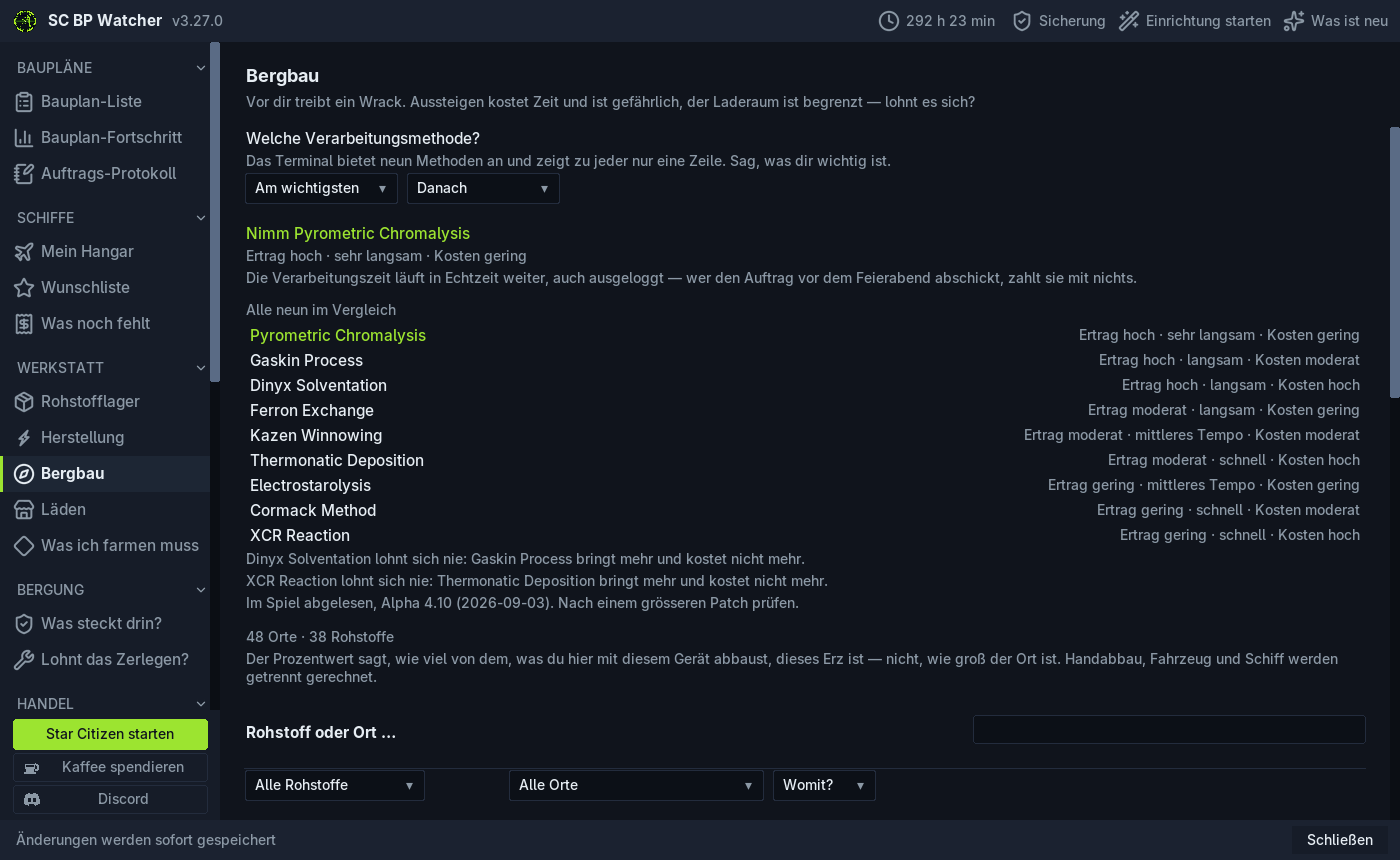
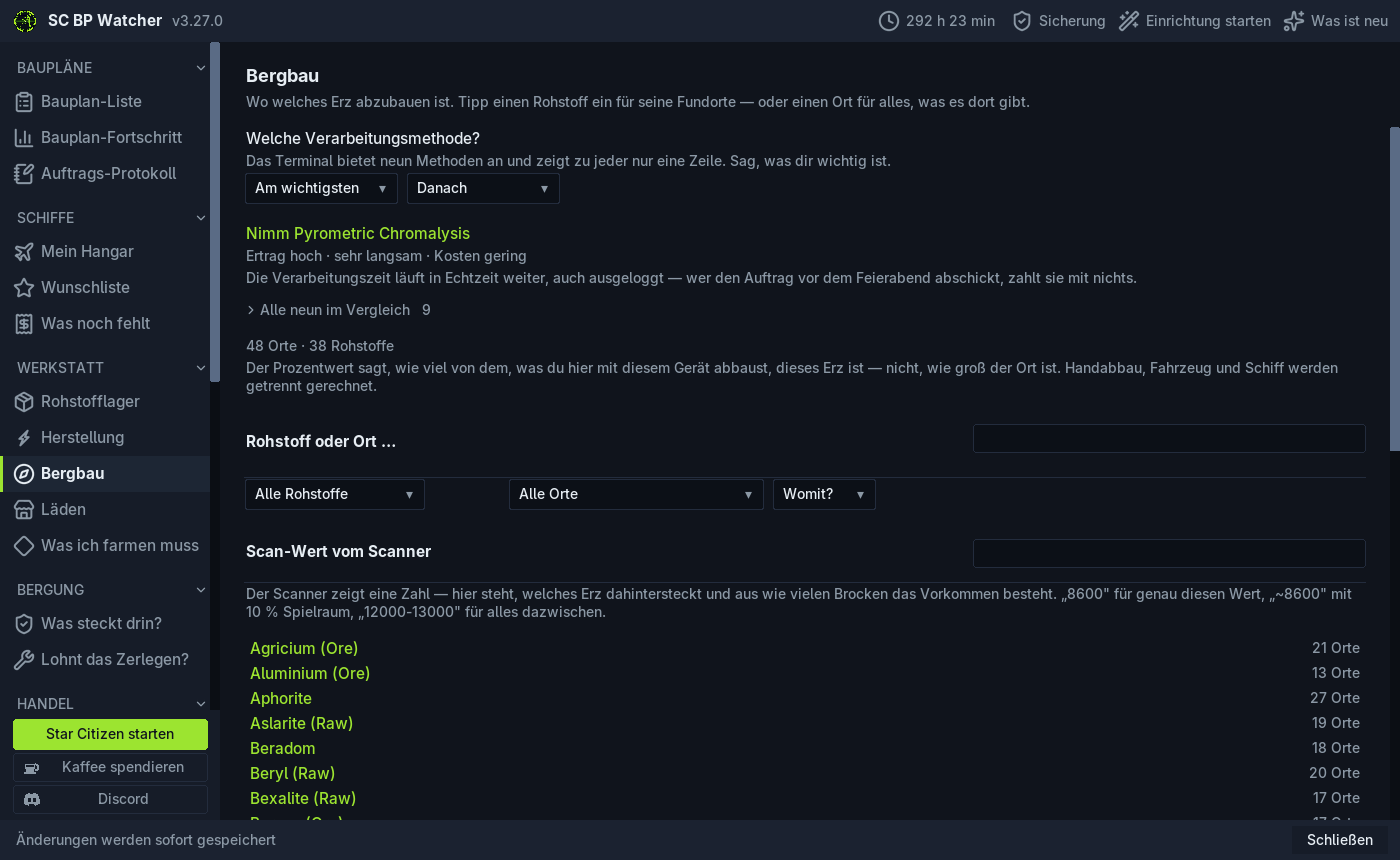
Bergbau: eigener Untertitel, Methodenvergleich klappt zu

diff --git a/scbp/seiten.py b/scbp/seiten.py
@@ -9267,7 +9267,10 @@ def _bergbau(fenster, rahmen):
     oder nicht.
     """
     from . import bergbau as berg_modul
-    _ueberschrift(fenster, rahmen, t('hf_bergbau'), t('s_wr_lead'))
+    # ⚠ **`s_bg_lead`, nicht `s_wr_lead`.** Hier stand der Text der
+    # Bergungs-Seite — „Vor dir treibt ein Wrack…" über der Erzsuche. Der
+    # eigene Satz war die ganze Zeit da und wurde von niemandem gerufen.
+    _ueberschrift(fenster, rahmen, t('hf_bergbau'), t('s_bg_lead'))
     innen = _rollflaeche(rahmen)
 
     try:
@@ -9606,6 +9609,8 @@ def _methodenblock(fenster, eltern):
                   'tempo': t('s_rm_tempo')}
     auswahl = [(a, achsentext[a]) for a in raff.ACHSEN]
     wahl = {'erste': '', 'zweite': ''}
+    # Der Klappzustand des Vergleichs — überlebt das Neuzeichnen, siehe unten.
+    klapp = {'offen': False}
     ergebnis = tk.Frame(block, bg=BG)
 
     def stufentext(kennung):
@@ -9634,10 +9639,50 @@ def _methodenblock(fenster, eltern):
             _fliesstext(ergebnis, t('s_rm_zeit_laeuft'), fenster.f_klein,
                         fill='x')
 
-        tk.Label(ergebnis, text=t('s_rm_alle'), bg=BG, fg=SUB,
-                 font=fenster.f_klein, anchor='w').pack(fill='x', pady=(10, 2))
+        # ⭐ **Der Vergleich klappt zu und startet zugeklappt** (08.09.2026):
+        # „die Info braucht man nur, wenn man sie sehen will." Neun Methoden
+        # mit Bewertung sind zwölf Zeilen über der eigentlichen Liste — die
+        # Empfehlung darüber beantwortet die Frage schon, der Rest ist zum
+        # Nachschlagen. Gleiches Muster wie „Was bringt am meisten?" auf der
+        # Fortschritts-Seite: Pfeil, Titel, Zahl.
+        #
+        # ⚠ Der Klappzustand liegt **außerhalb** von `zeichnen()` — die
+        # Funktion räumt `ergebnis` bei jeder Auswahländerung leer und baut
+        # neu; ein Zustand darin wäre bei jedem Wechsel wieder zu.
+        kopf = tk.Frame(ergebnis, bg=BG, cursor='hand2')
+        kopf.pack(fill='x', pady=(10, 2))
+        pfeil = zeichen.zeile(kopf, 'zuklappen' if klapp['offen']
+                              else 'aufklappen', grund=BG,
+                              schrift=fenster.f_klein)
+        pfeil.pack(side='left')
+        tk.Label(kopf, text=t('s_rm_alle'), bg=BG, fg=SUB,
+                 font=fenster.f_klein, anchor='w').pack(side='left')
+        tk.Label(kopf, text='  %d' % len(alle), bg=BG, fg=SUB,
+                 font=fenster.f_klein, anchor='w').pack(side='left')
+
+        koerper = tk.Frame(ergebnis, bg=BG)
+        if klapp['offen']:
+            koerper.pack(fill='x', after=kopf)
+
+        def umschalten(*_):
+            klapp['offen'] = not klapp['offen']
+            pfeil.symbol_tauschen('zuklappen' if klapp['offen']
+                                  else 'aufklappen')
+            if klapp['offen']:
+                # ⚠ `after=kopf` — sonst landet der Block ganz unten.
+                koerper.pack(fill='x', after=kopf)
+            else:
+                koerper.pack_forget()
+
+        for teil in [kopf] + list(kopf.winfo_children()):
+            teil.bind('<Button-1>', umschalten)
+            try:
+                teil.configure(cursor='hand2')
+            except tk.TclError:
+                pass
+
         for kennung in alle:
-            z = tk.Frame(ergebnis, bg=BG)
+            z = tk.Frame(koerper, bg=BG)
             z.pack(fill='x', pady=1)
             tk.Label(z, text=raff.NAMEN[kennung], bg=BG,
                      fg=(ACCENT if kennung == beste else FG),
@@ -9649,11 +9694,11 @@ def _methodenblock(fenster, eltern):
 
         # Methoden, die nichts können, was eine andere nicht besser kann.
         for schlecht, besser in sorted(raff.unterlegen().items()):
-            _fliesstext(ergebnis,
+            _fliesstext(koerper,
                         t('s_rm_unterlegen') % (raff.NAMEN[schlecht],
                                                 raff.NAMEN[besser]),
                         fenster.f_klein, fill='x')
-        _fliesstext(ergebnis, t('s_rm_stand') % (raff.PATCH, raff.ABGELESEN),
+        _fliesstext(koerper, t('s_rm_stand') % (raff.PATCH, raff.ABGELESEN),
                     fenster.f_klein, fill='x')
 
     _filterleiste(fenster, block,

diff --git a/scbp/sprache.py b/scbp/sprache.py
@@ -4152,10 +4152,13 @@ TEXTE = {
                           'The percentage says how much of what you mine here '
                           'with that gear is this ore — not how big the location '
                           'is. Hand, vehicle and ship mining count separately.'),
-    's_bg_mehr_info':    ('Genauer — mit Wahrscheinlichkeiten und Refinery-'
-                          'Vergleich — auf scmdb.net',
-                          'More detail — probabilities and refinery comparison — '
-                          'at scmdb.net'),
+    # ⚠ Bis v3.27.0 stand hier „Genauer — mit Wahrscheinlichkeiten und
+    # Refinery-Vergleich". Beides zeigt der Watcher inzwischen selbst; der Satz
+    # verwies also auf etwas, das eine Seite höher schon dastand.
+    's_bg_mehr_info':    ('Die vollständigen Bergbaudaten und weitere '
+                          'Auswertungen stehen auf scmdb.net',
+                          'The full mining data and further analyses are at '
+                          'scmdb.net'),
     's_bg_keine_daten':  ('Die Bergbau-Daten sind noch nicht geladen. Sie kommen '
                           'beim nächsten Katalog-Abruf dazu.',
                           'The mining data is not loaded yet. It arrives with the '

diff --git a/CHANGELOG.md b/CHANGELOG.md
@@ -6,6 +6,21 @@ Alle wichtigen Änderungen an diesem Projekt werden hier dokumentiert.
 
 Das Projekt nutzt SemVer: `MAJOR.MINOR.PATCH`.
 
+## Unveröffentlicht
+
+### Verbessert
+
+- **Der Methodenvergleich auf der Bergbau-Seite klappt zu** und startet
+  zugeklappt. Die Empfehlung steht weiterhin oben; die neun Methoden im
+  Einzelnen sieht, wer sie sehen will.
+
+### Behoben
+
+- **Über der Bergbau-Seite stand der Text der Bergungs-Seite** — „Vor dir
+  treibt ein Wrack…" über der Erzsuche.
+- **Der Verweis auf scmdb.net versprach Wahrscheinlichkeiten und einen
+  Raffinerie-Vergleich**, die inzwischen auf der Seite selbst stehen.
+
 ## v3.27.0 - 2026-09-08
 
 > **Der Bergbau sagt jetzt, wie viel von einem Erz an einem Ort liegt.** Bisher

diff --git a/CHANGELOG.en.md b/CHANGELOG.en.md
@@ -6,6 +6,21 @@ All notable changes to this project are documented here.
 
 The project follows SemVer: `MAJOR.MINOR.PATCH`.
 
+## Unreleased
+
+### Improved
+
+- **The method comparison on the mining page collapses** and starts collapsed.
+  The recommendation still sits at the top; the nine methods in detail are
+  there for whoever wants them.
+
+### Fixed
+
+- **The mining page carried the salvage page's intro** — "A wreck is drifting
+  in front of you…" above the ore search.
+- **The pointer to scmdb.net promised probabilities and a refinery comparison**
+  that the page now shows itself.
+
 ## v3.27.0 - 2026-09-08
 
 > **Mining now tells you how much of an ore sits at a location.** Until now it
